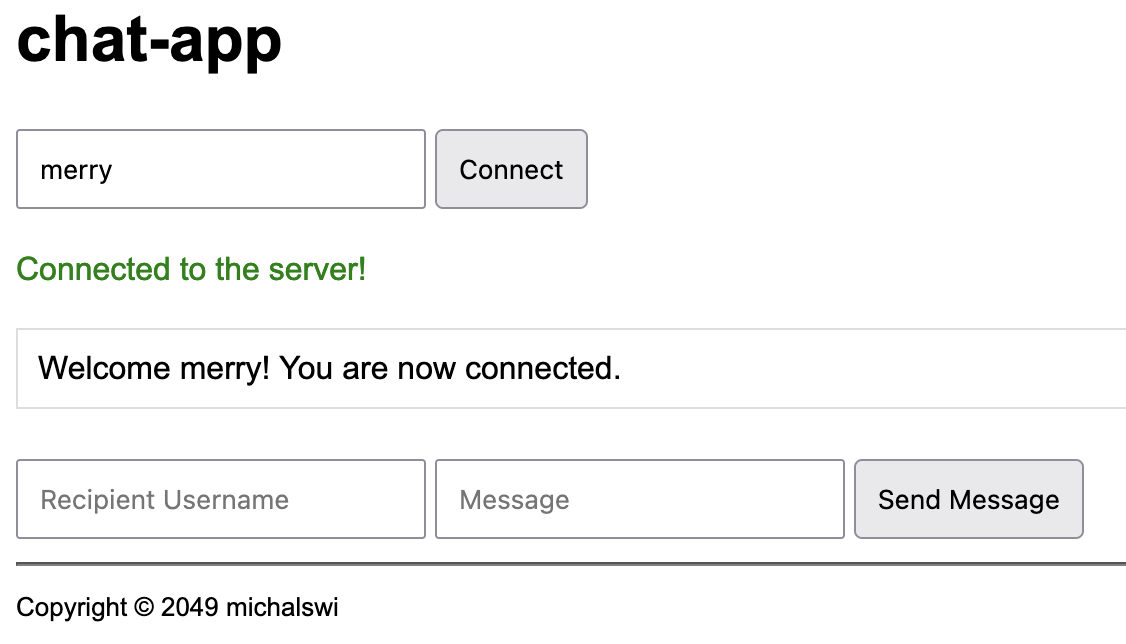
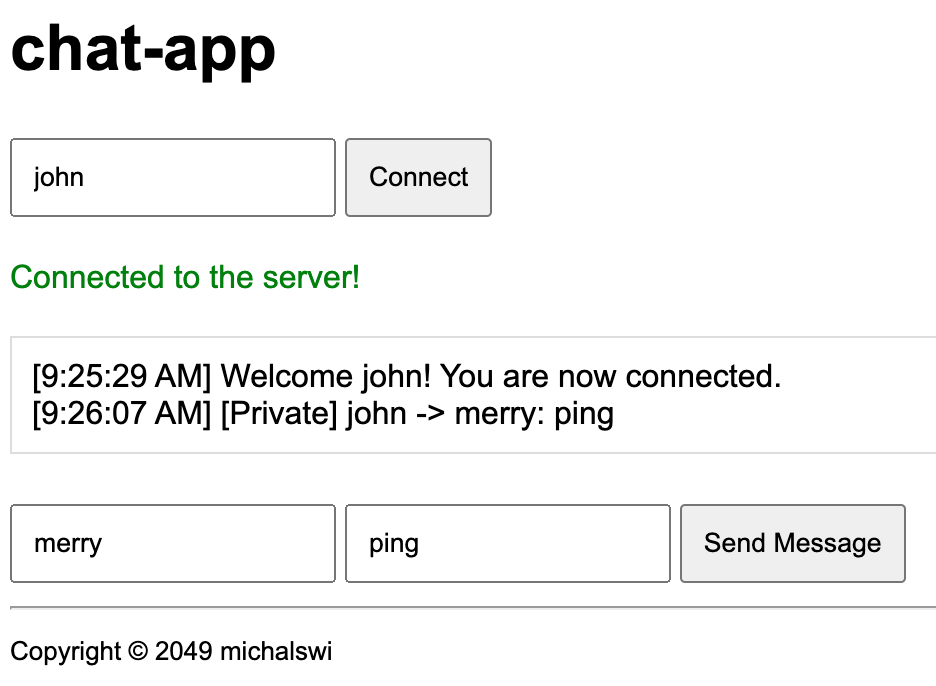
update html

diff --git a/client/static/index.html b/client/static/index.html
@@ -76,8 +76,10 @@
                 ws.onmessage = (event) => {
                     console.log("Message received:", event.data);
                     const chat = document.getElementById("chat");
-                    chat.innerHTML += `<div>${event.data}</div>`;
-                    chat.scrollTop = chat.scrollHeight; // Auto-scroll to the bottom
+                    const timestamp = new Date().toLocaleTimeString();
+                    chat.innerHTML += `<div>[${timestamp}] ${event.data}</div>`;
+                    // Auto-scroll to the bottom
+                    chat.scrollTop = chat.scrollHeight;
                 };
 
                 ws.onclose = () => {

diff --git a/README.md b/README.md
@@ -20,14 +20,8 @@ go run client/client.go
 
 ![img1](./img/img1.png)
 
-\> connect **merry**
+\> connect **john** and send `ping` to **merry**
 ![img2](./img/img2.png)
 
-\> connect **john**
+\> connected **merry** and received message from **john**
 ![img3](./img/img3.png)
-
-\> **john** sends message 'ping' to **merry**
-![img4](./img/img4.png)
-
-\> **merry** sends message 'pong' to **john**
-![img5](./img/img5.png)
